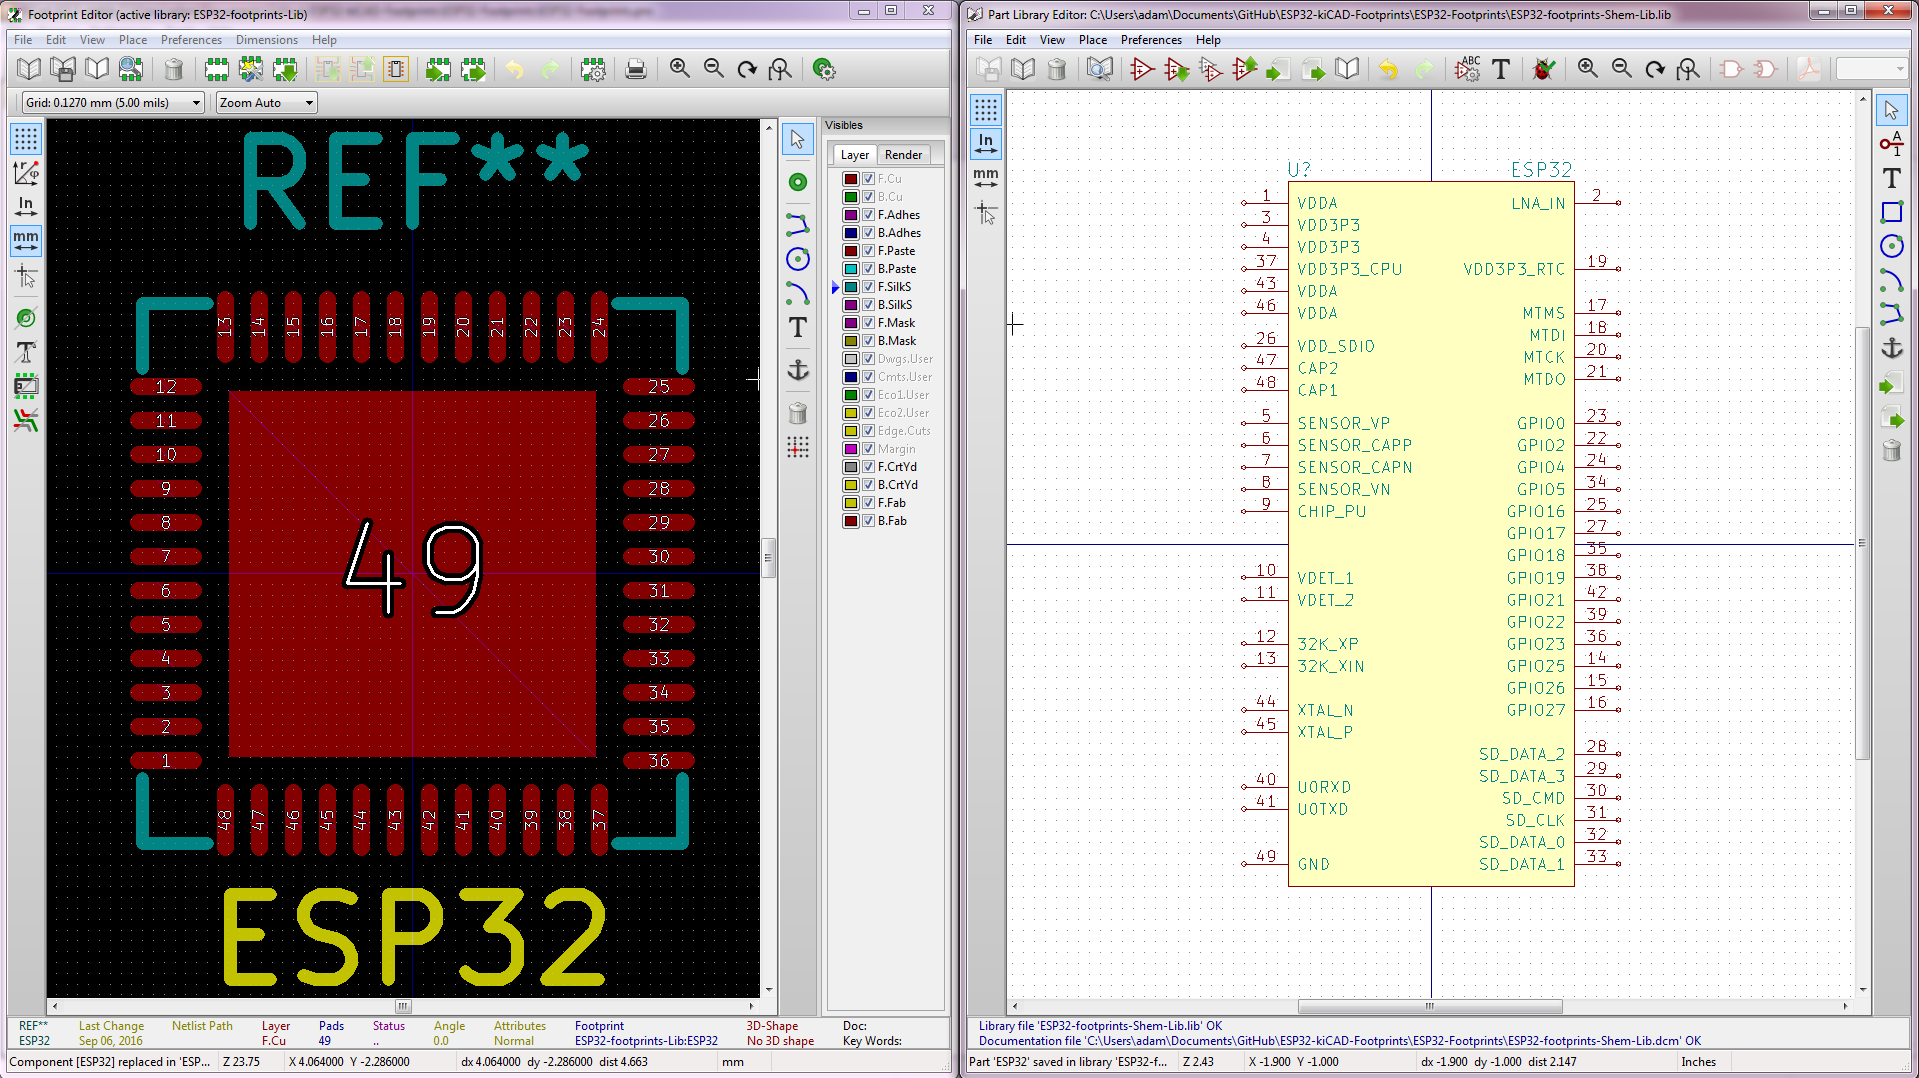
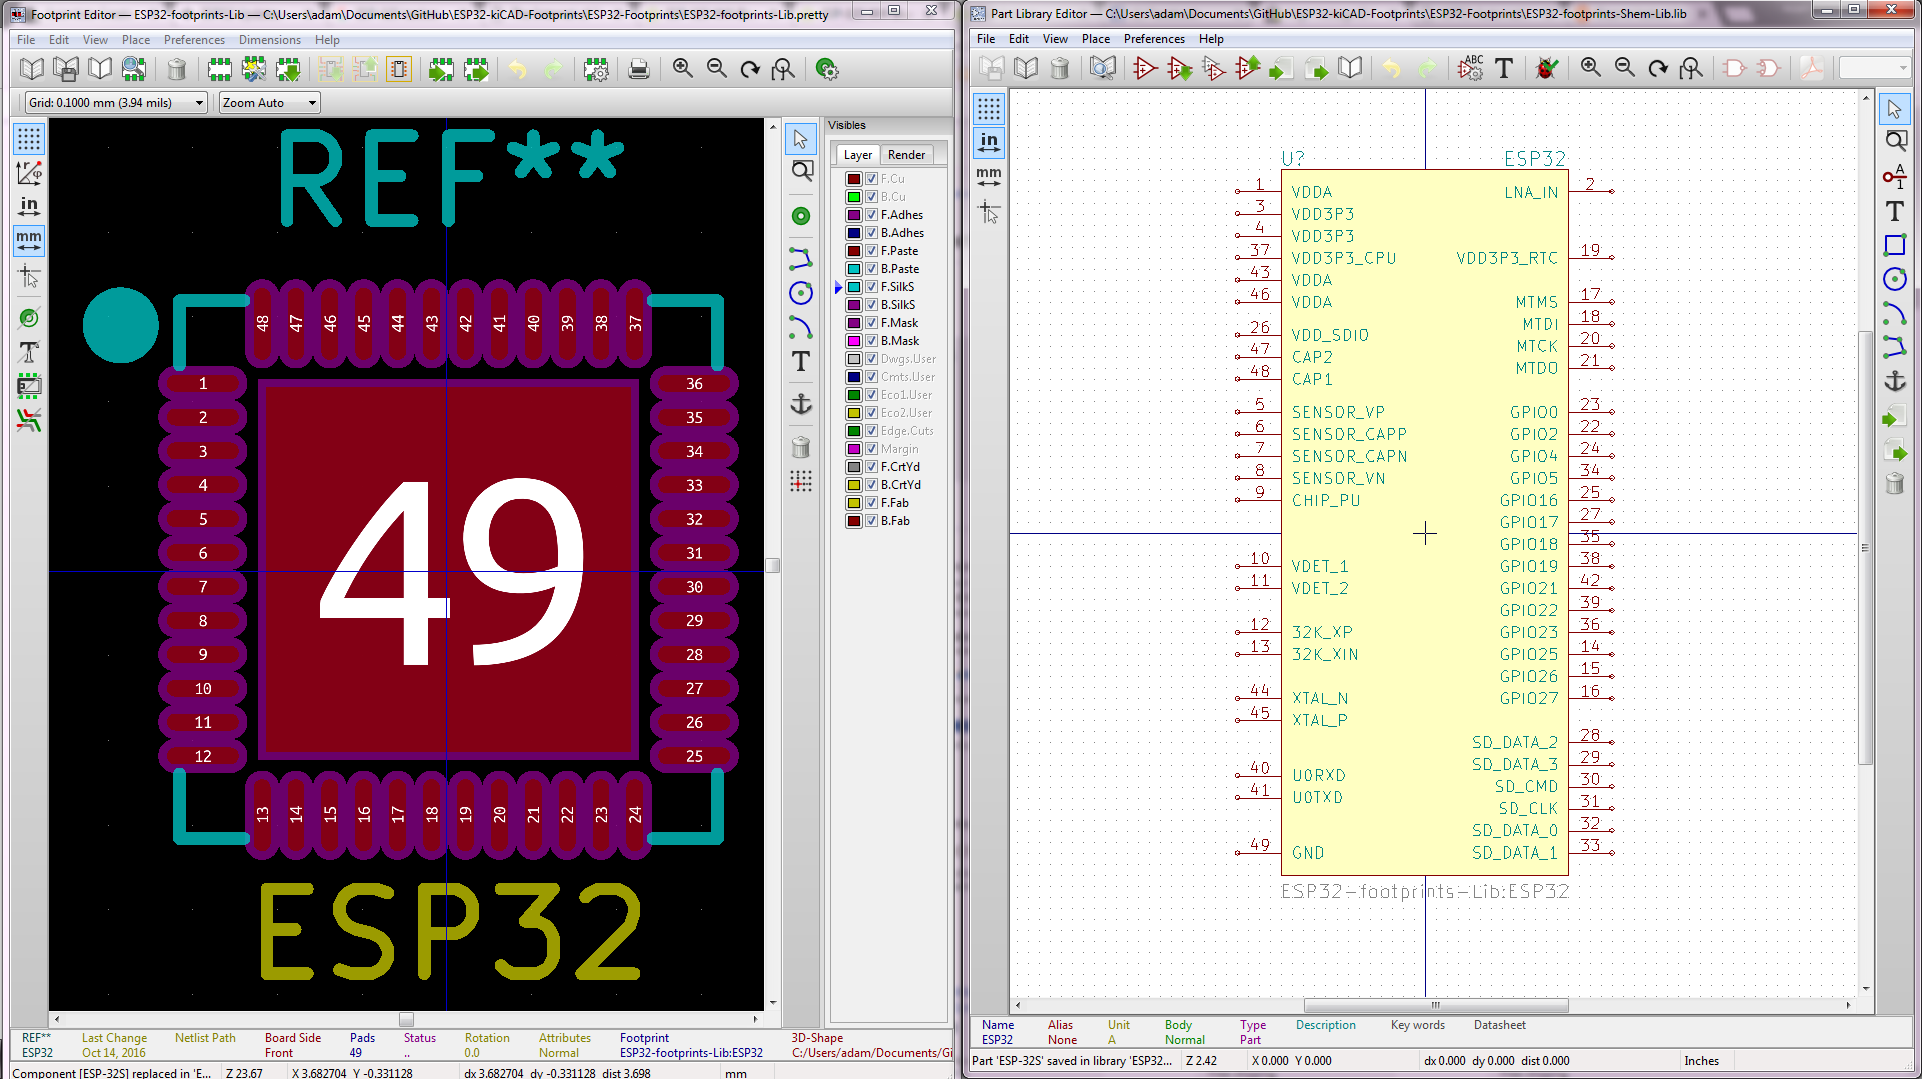
ESP-32S
ESP-32S footprint created and added. The ESP-32S is the replacement for
the ESP3212. The ESP3212 was scrapped by AI-Thinker in favor of the
ESP-32S which appears to be their custom respin of the ESP32-WROOM
module from Espressif. Apparently no ESP3212 modules have been shipped
out instead ESP-32S module have been instead.

Changed region(s): [[0.0, 0.0, 1.0, 1.0], [0.3075, 0.0612, 0.3382, 0.0918]]

diff --git a/README.md b/README.md
@@ -3,8 +3,8 @@ Footprints for the Espressif ESP32 WiFi/BLE Chip and ESP3212 module, for KiCAD E
 These footprints are current untested use at your own risk! I'll have a test board
 soon!
 
-ESP3212 - Module
-![ESP3212 - Module](ESP3212_kiCAD.png)
+ESP-32S - Module
+![ESP32S - Module](ESP-32S_kiCAD.png)
 
 ESP32-WROOM - module
 ![ESP32-WROOM - module](ESP32_WROOM.png)
